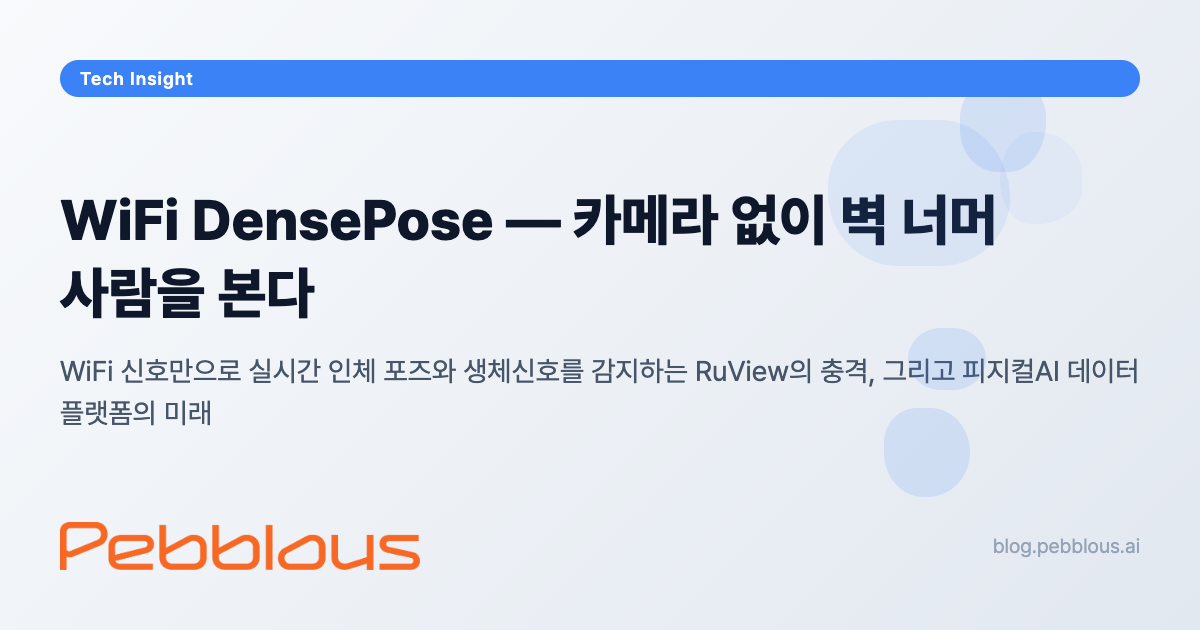
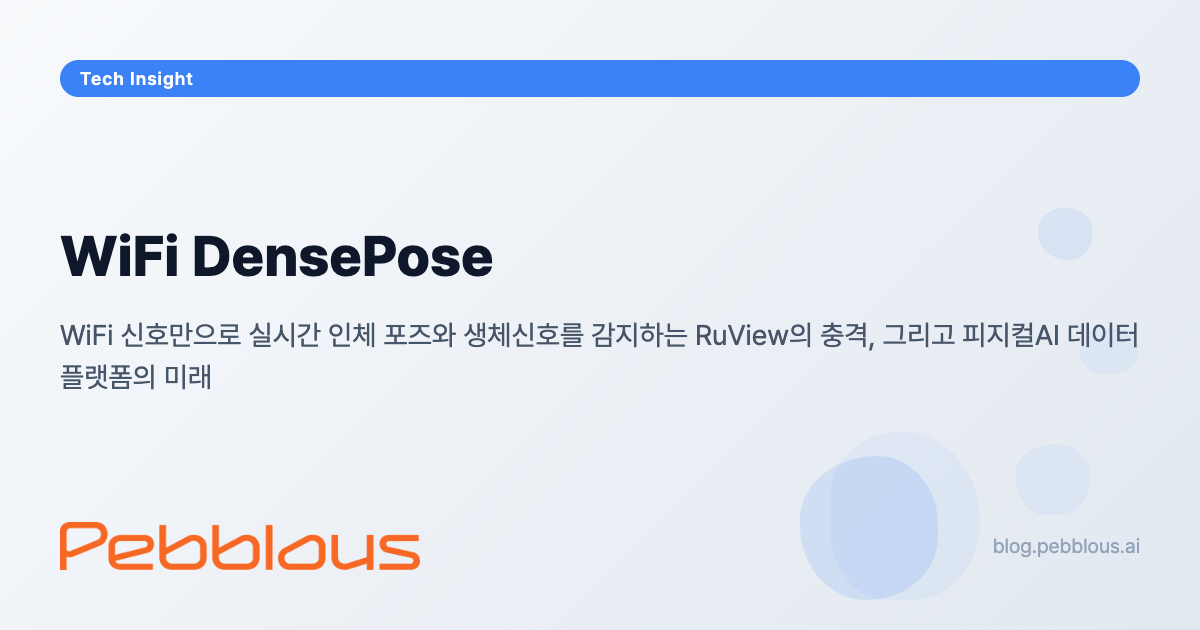
fix: WiFi DensePose PR #41 리뷰 반영 — SEO + CSS 정리
Critical:
- theme-variables.css 로드 추가
- 인라인 CSS 변수/테마 중복 제거 (~50줄 삭제, theme-variables.css로 통일)
- twitter:site + twitter:creator @pebblous 추가
- articles.json image 필드 "" (빈 문자열, 관례 준수)

Important:
- content-language, copyright 메타 추가
- og-image-title 메타 추가
- PebblousPage.init() 직접 호출 패턴으로 변경
- OG 이미지 생성 (165KB, tech)

Changed region(s): [[0.0308, 0.1508, 0.9558, 0.6937], [0.6783, 0.7238, 0.8017, 0.9651]]

diff --git a/project/WiFiDensePose/wifi-densepose-ruview/ko/index.html b/project/WiFiDensePose/wifi-densepose-ruview/ko/index.html
@@ -7,8 +7,9 @@
     <title>WiFi DensePose — 카메라 없이 벽 너머 사람을 본다 | 페블러스</title>
     <meta name="author" content="Pebblous Data Communication Team">
     <meta name="language" content="Korean">
+    <meta http-equiv="content-language" content="ko">
+    <meta name="copyright" content="© 2026 Pebblous. All rights reserved.">
     <meta name="robots" content="index, follow">
-    <meta name="revisit-after" content="7 days">
 
     <meta name="description" content="WiFi 신호만으로 카메라 없이 실시간 인체 포즈와 생체신호를 감지하는 RuView. CMU DensePose From WiFi 논문을 오픈소스로 구현한 이 기술이 피지컬AI 데이터 플랫폼에 미치는 파급력을 분석합니다.">
     <meta name="keywords" content="WiFi DensePose, RuView, CSI, Channel State Information, 인체 포즈 추정, Physical AI, 피지컬AI, 피지컬 AI, 생체신호, 데이터클리닉, DataClinic, PebbloSim, 합성데이터, 산업인공지능, 페블러스, Pebblous, DensePose From WiFi, CMU, 실내 측위">
@@ -19,6 +20,7 @@
     <link rel="alternate" hreflang="x-default" href="https://blog.pebblous.ai/project/WiFiDensePose/wifi-densepose-ruview/ko/">
 
     <!-- Open Graph -->
+    <meta name="og-image-title" content="WiFi DensePose">
     <meta property="og:title" content="WiFi DensePose — 카메라 없이 벽 너머 사람을 본다">
     <meta property="og:description" content="WiFi 신호만으로 실시간 인체 포즈와 생체신호를 감지하는 RuView의 충격, 그리고 피지컬AI 데이터 플랫폼의 미래">
     <meta property="og:type" content="article">
@@ -37,6 +39,8 @@
     <meta name="twitter:description" content="WiFi 신호만으로 실시간 인체 포즈와 생체신호를 감지하는 RuView의 충격">
     <meta name="twitter:image" content="https://blog.pebblous.ai/project/WiFiDensePose/wifi-densepose-ruview/ko/image/index.png">
     <meta name="twitter:image:alt" content="WiFi DensePose — 카메라 없이 벽 너머 사람을 본다">
+    <meta name="twitter:site" content="@pebblous">
+    <meta name="twitter:creator" content="@pebblous">
 
     <!-- Favicon -->
     <link rel="icon" href="/image/favicon.ico" sizes="any">
@@ -96,6 +100,7 @@
     </script>
 
     <!-- Styles -->
+    <link rel="stylesheet" href="/css/theme-variables.css?v=20260326">
     <link rel="stylesheet" href="/styles/common-styles.css?v=20260326">
     <link rel="stylesheet" href="/styles/tailwind-build.css?v=20260326">
 
@@ -104,54 +109,7 @@
     <link rel="stylesheet" href="https://cdn.jsdelivr.net/gh/orioncactus/pretendard@v1.3.9/dist/web/variable/pretendardvariable.min.css">
 
     <style>
-        :root {
-            --bg-primary: #ffffff;
-            --bg-secondary: #f8fafc;
-            --bg-card: rgba(248, 250, 252, 0.95);
-            --text-primary: #1e293b;
-            --text-secondary: #475569;
-            --text-muted: #64748b;
-            --accent-color: #F86825;
-            --teal-color: #14b8a6;
-            --border-color: #e2e8f0;
-        }
-
-        [data-theme="dark"] {
-            --bg-primary: #0f172a;
-            --bg-secondary: #1e293b;
-            --bg-card: rgba(30, 41, 59, 0.95);
-            --text-primary: #f1f5f9;
-            --text-secondary: #cbd5e1;
-            --text-muted: #94a3b8;
-            --border-color: #334155;
-        }
-
-        [data-theme="beige"] {
-            --bg-primary: #f5f1e8;
-            --bg-secondary: #ebe3d5;
-            --bg-card: rgba(245, 241, 232, 0.95);
-            --text-primary: #2d2a26;
-            --text-secondary: #5a534a;
-            --text-muted: #78716c;
-            --accent-color: #F86825;
-            --teal-color: #0d9488;
-            --border-color: #d6cec0;
-        }
-
-        body {
-            font-family: var(--font-sans, 'Pretendard', sans-serif);
-            font-size: 18px;
-            letter-spacing: -0.01em;
-            background-color: var(--bg-primary);
-            color: var(--text-secondary);
-            transition: background-color 0.3s ease, color 0.3s ease;
-        }
-
-        .themeable-text { color: var(--text-secondary); }
-        .themeable-heading { color: var(--text-primary); }
-        .themeable-muted { color: var(--text-muted); }
-        .themeable-card { background-color: var(--bg-card); border-color: var(--border-color); }
-        .themeable-border { border-color: var(--border-color); }
+        /* Page-specific styles (theme variables loaded from theme-variables.css) */
         .accent-text { color: var(--accent-color); font-weight: 600; }
         .teal-text { color: var(--teal-color); font-weight: 600; }
 
@@ -1015,8 +973,7 @@
 
     <script src="/scripts/common-utils.js?v=20260326"></script>
     <script>
-        document.addEventListener('DOMContentLoaded', async function() {
-            const config = {
+        PebblousPage.init({
                 mainTitle: "WiFi DensePose — 카메라 없이 벽 너머 사람을 본다",
                 subtitle: "WiFi 신호만으로 실시간 인체 포즈와 생체신호를 감지하는 RuView의 충격",
                 pageTitle: "WiFi DensePose — 카메라 없이 벽 너머 사람을 본다 | 페블러스",
@@ -1071,8 +1028,6 @@
                         answer: "피지컬AI는 로봇, 드론, 자율주행처럼 물리 세계에서 동작하는 AI 시스템입니다. WiFi DensePose는 카메라가 불가능한 환경에서 인체 위치·자세 데이터를 제공하는 새로운 센서 계층입니다. 피지컬AI의 눈이 하나 더 생기는 셈입니다."
                     }
                 ]
-            };
-            await PebblousPage.init(config);
         });
     </script>
 </body>
